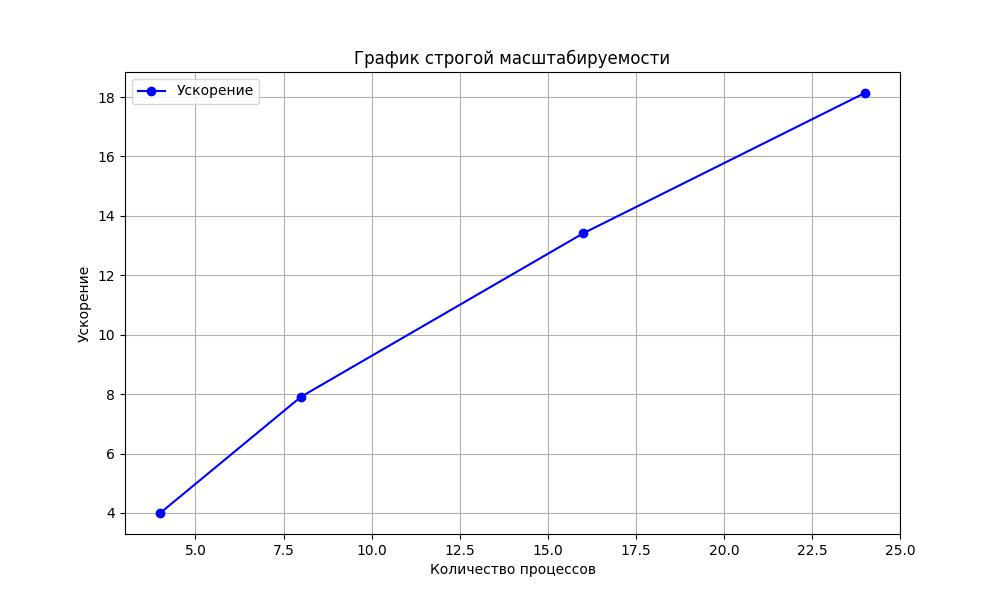
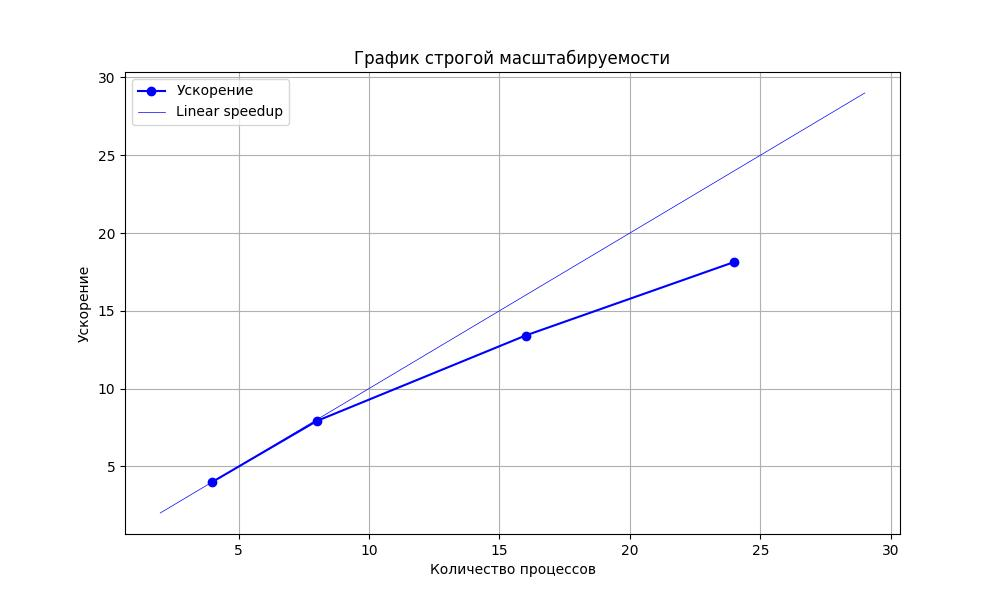
Нужно доделать монте для 10 в 7

diff --git a/autumn/2lab/graph.py b/autumn/2lab/graph.py
@@ -22,6 +22,8 @@ speedup = [initial_time / t * 4 for t in times]
 # Построение графика
 plt.figure(figsize=(10, 6))
 plt.plot(processes, speedup, marker='o', linestyle='-', color='b', label="Ускорение")
+plt.plot(range(2,30),range(2,30),'-',c="blue",linewidth=0.5,label="Linear speedup")
+
 
 # Подписи осей
 plt.xlabel('Количество процессов')

diff --git a/autumn/2lab/monte.c b/autumn/2lab/monte.c
@@ -4,7 +4,7 @@
 #include <stdlib.h>
 
 const double PI = 3.14159265358979323846;
-const int n = 100000000;
+const int n = 10000000;
 
 double getrand()
 {
